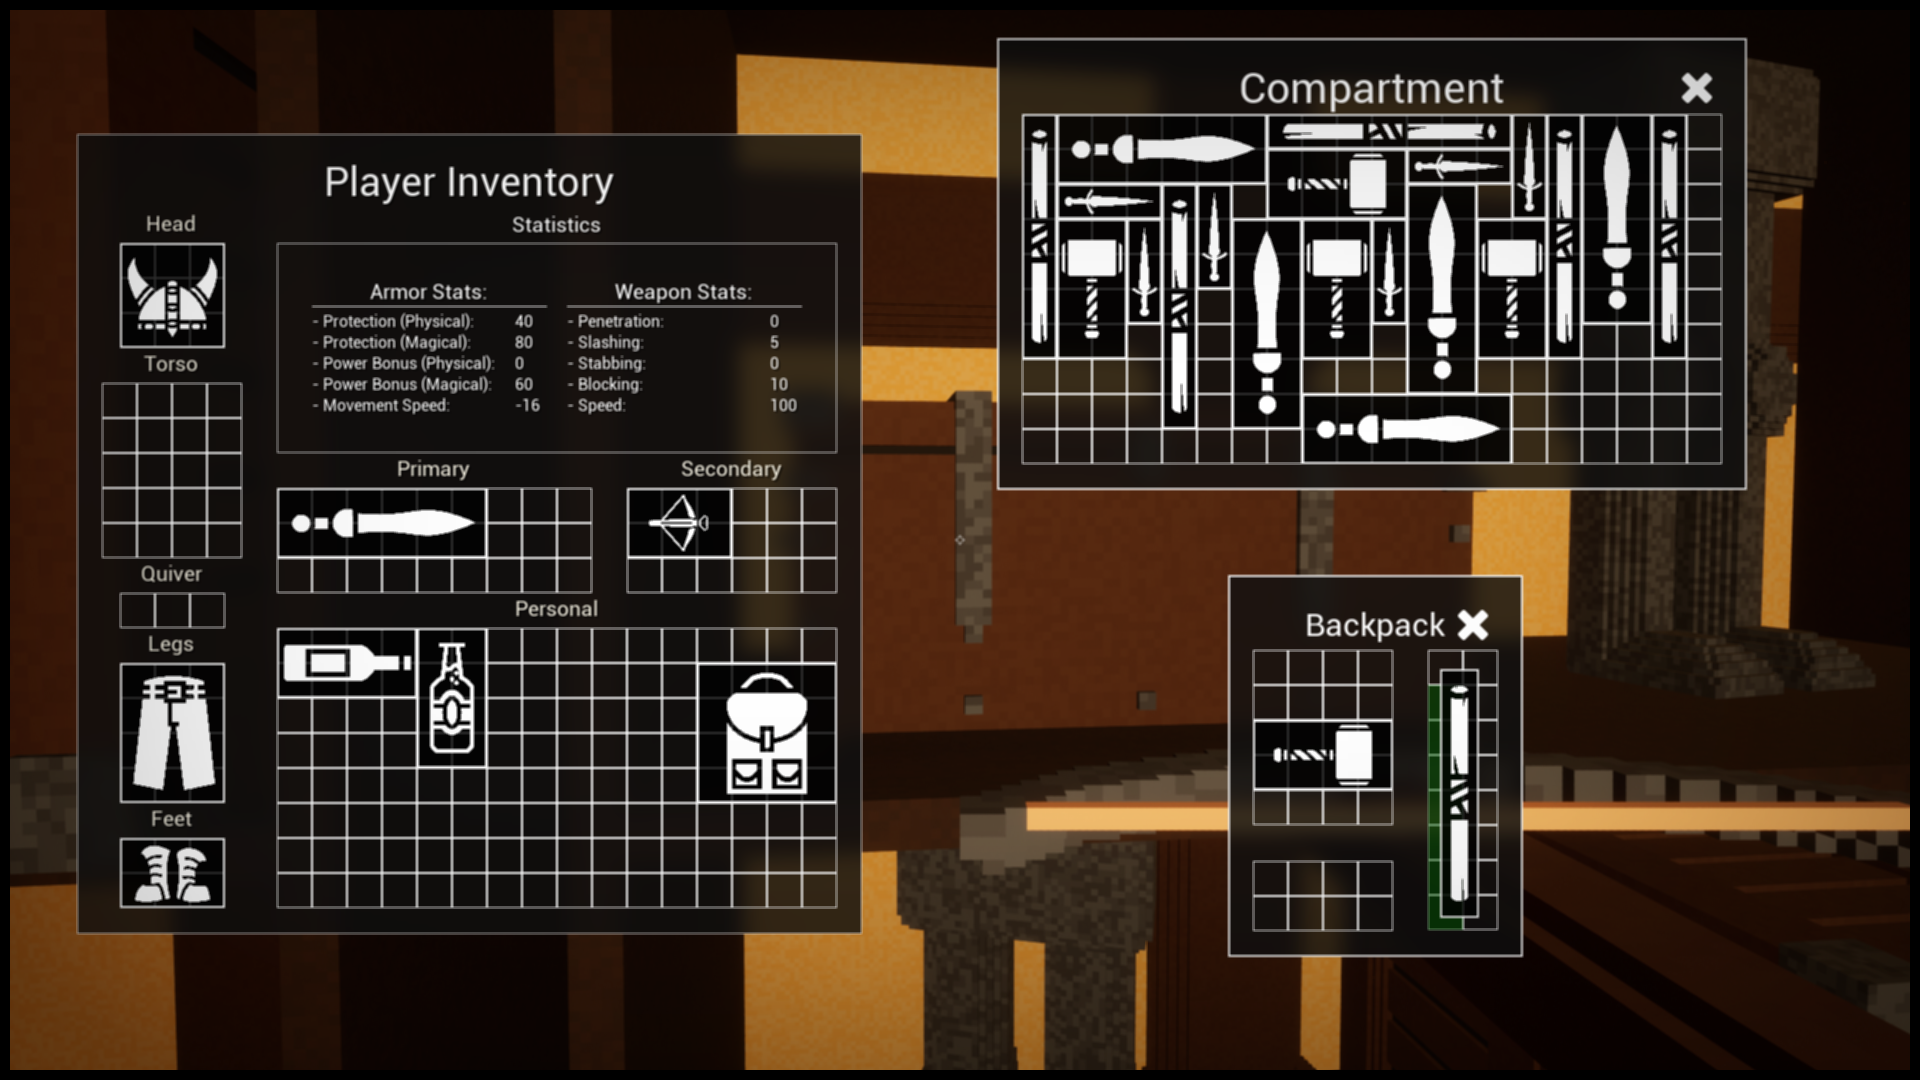
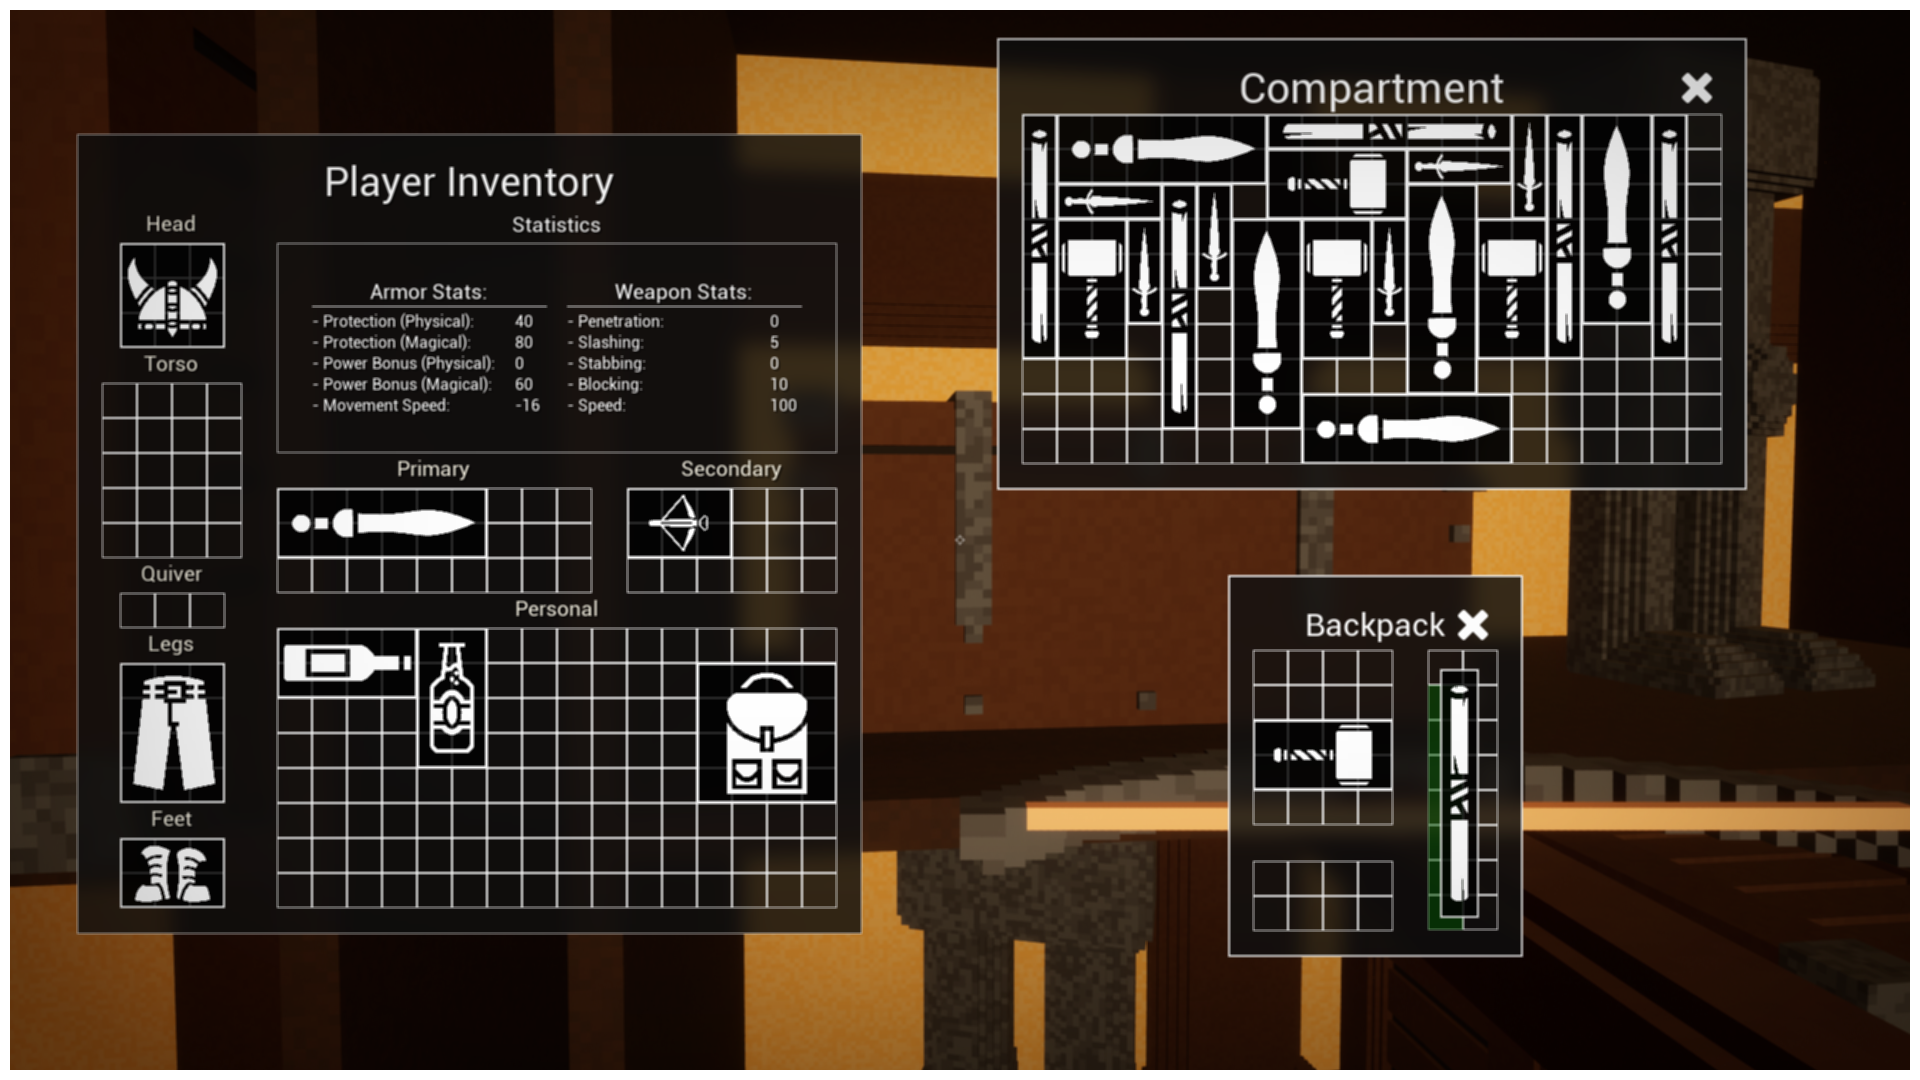
- Updated formatting. - Modified "Contact Me" section. - Improved image quality.

Changed region(s): [[0.0, 0.0, 1.0, 1.0]]

diff --git a/index.html b/index.html
@@ -44,10 +44,29 @@
 				</div>
 
 				<div class="col-md-6 col-xs-11">
-					<p class="text-justify">
+					<h3 class="text-left">
+						Background
+					</h3>
+
+					<p class="text-left">
 						Video games are a core aspect of my life. Because of this, I started with game development as soon as I realized that
-						it was something that I could do. Since then, I have worked with Unity, Unreal Engine, and Godot to name a few. I went
-						to college for a software development degree and furthered my knowledge of the programming languages Java, Python, C++, and SQL.
+						it was something that I could do. Since then, I have worked with Unity, Unreal Engine, and Godot to name a few.<br/>
+						<br/>
+						I went to college for a software development degree and furthered my knowledge of the programming languages Java,
+						Python, and C++. This experience helped me develop an understanding of programming outside just video games.
+					</p>
+				</div>
+
+				<div class="col-md-6 col-xs-11">
+					<h3 class="text-left">
+						Interests
+					</h3>
+
+					<p class="text-left">
+						- First-person shooters, dungeon crawlers, and hardcore survival games are my favorite to play by myself and with friends.<br/>
+						- I am a big fan of simple mechanics that allow for complex decision-making from the player.<br/>
+						- I have reached the top 100 players in North America for CS2 and helped bring my team to the top 50.<br/>
+						- Other than gaming, music is a passion of mine and I have worked as a songwriter/producer. I also have played guitar for 14 years.
 					</p>
 				</div>
 			</div>
@@ -111,7 +130,7 @@
 			<div class="container">
 				<div class="row">
 					<div>
-						<h1>// Products & Projects</h1>
+						<h1>// Projects & Products</h1>
 					</div>
 				</div>
 
@@ -122,7 +141,7 @@
 					</div>
 					<div class="text-container">
 						<h3 class="text-left">
-							Grid Inventory Plugin
+							Grid Inventory (Plugin)
 						</h3>
 
 						<p class="text-left">
@@ -155,7 +174,7 @@
 					</div>
 					<div class="text-container">
 						<h3 class="text-left">
-							Limb Health Plugin
+							Limb Health (Plugin)
 						</h3>
 
 						<p class="text-left">
@@ -188,7 +207,7 @@
 					</div>
 					<div class="text-container">
 						<h3 class="text-left">
-							Dynamic Interaction Plugin
+							Dynamic Interaction (Plugin)
 						</h3>
 
 						<p class="text-left">
@@ -220,8 +239,7 @@
 				<div class="container">
 					<div class="row">
 						<address>
-							<h1>// Contact Me</h1>
-							<p>The best way to reach me is by emailing me at tylermyles98@gmail.com</p>
+							<p class="contact">If you would like to contact me, please email me at tylermyles98@gmail.com</p>
 						</address>
 					</div>
 				</div>

diff --git a/style.css b/style.css
@@ -25,6 +25,7 @@ body
 h1,h2,h3,h4,h5,p
 {
     color: #ffffff;
+    text-shadow: 2px 2px rgb(0, 0, 0, 0.5);
 }
 
 a
@@ -82,6 +83,7 @@ h3
     font-family: "Simple Grunge", serif;
     font-size: 30px;
     text-align: left;
+    text-shadow: 4px 4px rgb(0, 0, 0, 0.5);
 }
 
 h1
@@ -90,6 +92,7 @@ h1
     font-size: 50px;
     text-align: left;
     padding-bottom: 50px;
+    text-shadow: 5px 5px rgb(0, 0, 0, 0.5);
 }
 
 h1.accent
@@ -106,6 +109,13 @@ p
     text-align: left;
 }
 
+p.contact
+{
+    font-size: 15px;
+    text-align: center;
+    padding-top: 100px;
+}
+
 h1.title
 {
     font-size: 150px;
@@ -115,31 +125,32 @@ h1.title
 .content-wrapper
 {
     display: flex;
-    flex-direction: row-reverse; /* Reverses the order, placing the image on the right */
+    flex-direction: row-reverse;
     align-items: flex-start;
 }
 
 .image-container
 {
-    flex: 0 0 50%; /* Image container takes 25% of the width */
-    margin-left: 0; /* Optional: space between the text and image */
-    margin-bottom: 10px
+    flex: 0 0 50%;
+    margin-left: 0;
+    margin-top: 20px;
+    margin-bottom: 20px;
 }
 
 .img-responsive
 {
-    max-width: 100%; /* Ensures the image scales to fill 25% width */
+    max-width: 100%;
     height: fit-content;
 }
 
 .text-container
 {
-    flex: 0 0 50%; /* Text container takes 75% of the width */
+    flex: 0 0 50%;
 }
 
 .divider
 {
-    width: 25%;
+    width: 450px;
     height: 1px;
     margin-top: -50px;
     margin-bottom: 10px;
@@ -147,8 +158,8 @@ h1.title
 
 .section-divider
 {
-    width: 50%;
+    width: 150px;
     height: 1px;
-    margin-top: -50px;
+    margin-top: 0;
     margin-bottom: 0;
 }
